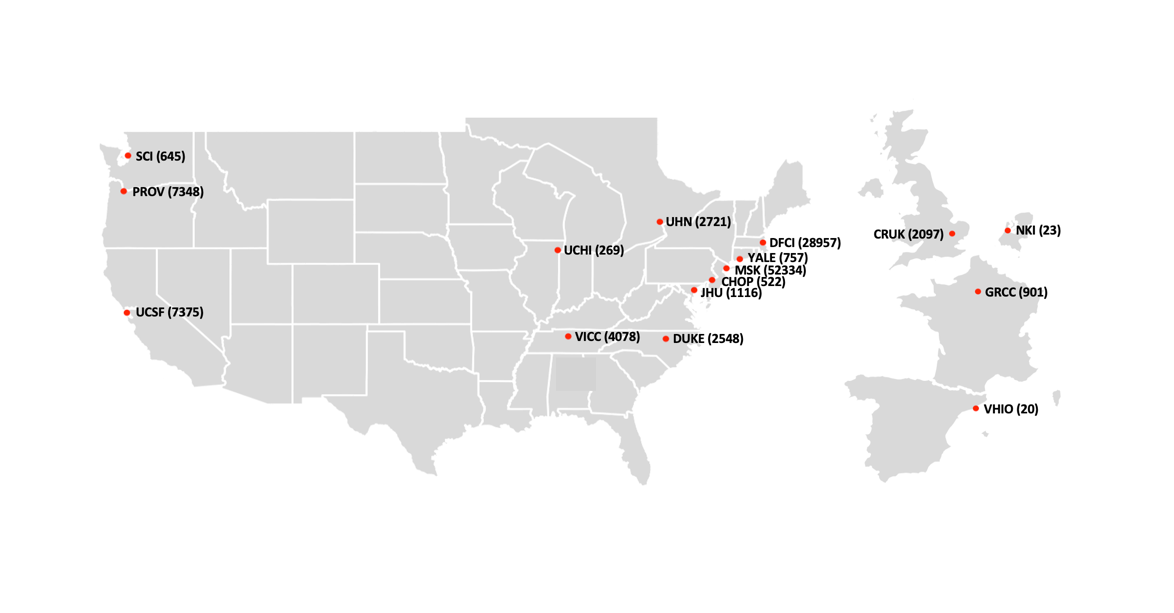
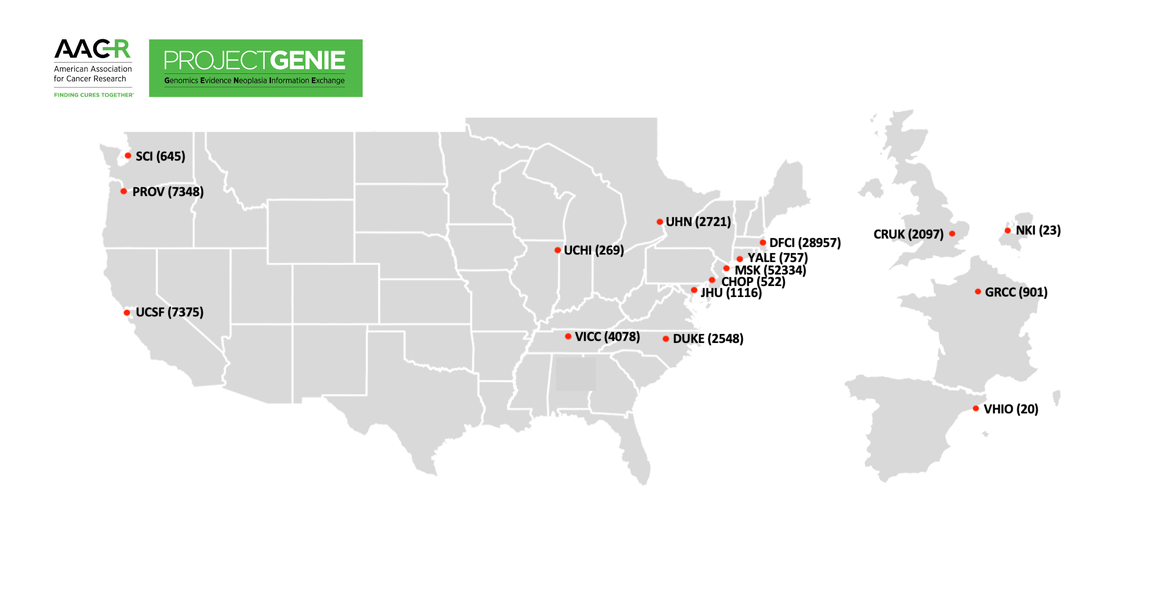
Refine README figures and webpage overview

Changed region(s): [[0.0307, 0.062, 0.3066, 0.186]]

diff --git a/docs/index.html b/docs/index.html
@@ -48,12 +48,36 @@
         </div>
       </section>
 
-      <section class="intro-note">
+      <section class="study-overview" id="overview" aria-labelledby="overview-title">
+        <h2 id="overview-title">Study and catalogue overview</h2>
         <p>
           The accompanying manuscript applies SATS to 111,711 tumors from AACR
-          Project GENIE to construct a real-world, panel-calibrated pan-cancer
-          catalogue of targeted sequencing-derived mutational signatures.
+          Project GENIE version 13.0-public to construct a real-world,
+          panel-calibrated pan-cancer catalogue of targeted sequencing-derived
+          mutational signatures.
         </p>
+        <div class="overview-grid">
+          <figure class="overview-map">
+            <img src="assets/genie-site-distribution.png" alt="AACR Project GENIE participating center distribution across North America and Europe.">
+            <figcaption>GENIE participating centers and sample counts used for the targeted-sequencing catalogue.</figcaption>
+          </figure>
+          <div class="overview-metrics" aria-label="Study summary">
+            <p><strong>111,711</strong><span>tumors profiled by targeted sequencing</span></p>
+            <p><strong>North America and Europe</strong><span>real-world clinical sequencing programs</span></p>
+            <p><strong>26 SBS signatures</strong><span>detected across cancer categories</span></p>
+            <p><strong>12 DBS signatures</strong><span>detected from targeted sequencing data</span></p>
+          </div>
+        </div>
+        <div class="catalogue-grid">
+          <figure>
+            <img src="assets/sats-sbs-catalogue.png" alt="SATS SBS signature catalogue across cancer categories.">
+            <figcaption>SBS catalogue. Dot size indicates the proportion of tumors carrying each signature; stacked bars summarize signature-attributed mutation burden.</figcaption>
+          </figure>
+          <figure>
+            <img src="assets/sats-dbs-catalogue.png" alt="SATS DBS signature catalogue across cancer categories.">
+            <figcaption>DBS catalogue generated from targeted sequencing data.</figcaption>
+          </figure>
+        </div>
       </section>
 
       <section id="install">

diff --git a/docs/styles.css b/docs/styles.css
@@ -144,6 +144,69 @@ h1 {
   margin-bottom: 12px;
 }
 
+.study-overview {
+  display: grid;
+  gap: 16px;
+}
+
+.overview-grid {
+  display: grid;
+  grid-template-columns: minmax(0, 1.45fr) minmax(240px, 0.65fr);
+  gap: 18px;
+  align-items: start;
+}
+
+.overview-map,
+.catalogue-grid figure {
+  margin: 0;
+}
+
+.overview-map img,
+.catalogue-grid img {
+  display: block;
+  width: 100%;
+  height: auto;
+  background: #fff;
+  border: 1px solid var(--border);
+  border-radius: 6px;
+}
+
+.overview-map figcaption,
+.catalogue-grid figcaption {
+  margin-top: 8px;
+  color: var(--muted);
+  font-size: 0.92rem;
+}
+
+.overview-metrics {
+  display: grid;
+  gap: 10px;
+}
+
+.overview-metrics p {
+  margin: 0;
+  padding: 10px 0;
+  border-top: 1px solid var(--soft-border);
+}
+
+.overview-metrics strong {
+  display: block;
+  color: var(--accent);
+  font-size: 1.12rem;
+  line-height: 1.25;
+}
+
+.overview-metrics span {
+  display: block;
+  color: var(--muted);
+  font-size: 0.92rem;
+}
+
+.catalogue-grid {
+  display: grid;
+  gap: 20px;
+}
+
 .tool-links {
   display: grid;
   gap: 8px;
@@ -295,6 +358,10 @@ footer {
   }
 
   .summary-list {
+    grid-template-columns: 1fr;
+  }
+
+  .overview-grid {
     grid-template-columns: 1fr;
   }
 }

diff --git a/README.md b/README.md
@@ -22,10 +22,6 @@ The accompanying manuscript applies SATS to 111,711 tumors from AACR Project GEN
 SATS was developed using AACR Project GENIE version 13.0-public, a real-world targeted-sequencing cohort spanning clinical sequencing programs in North America and Europe.
 
 <p align="center">
-  <img width="500" alt="AACR Project GENIE logo" src="docs/assets/aacr-project-genie-logo.png">
-</p>
-
-<p align="center">
   <img width="780" alt="AACR Project GENIE participating center distribution across North America and Europe" src="docs/assets/genie-site-distribution.png">
 </p>
 
